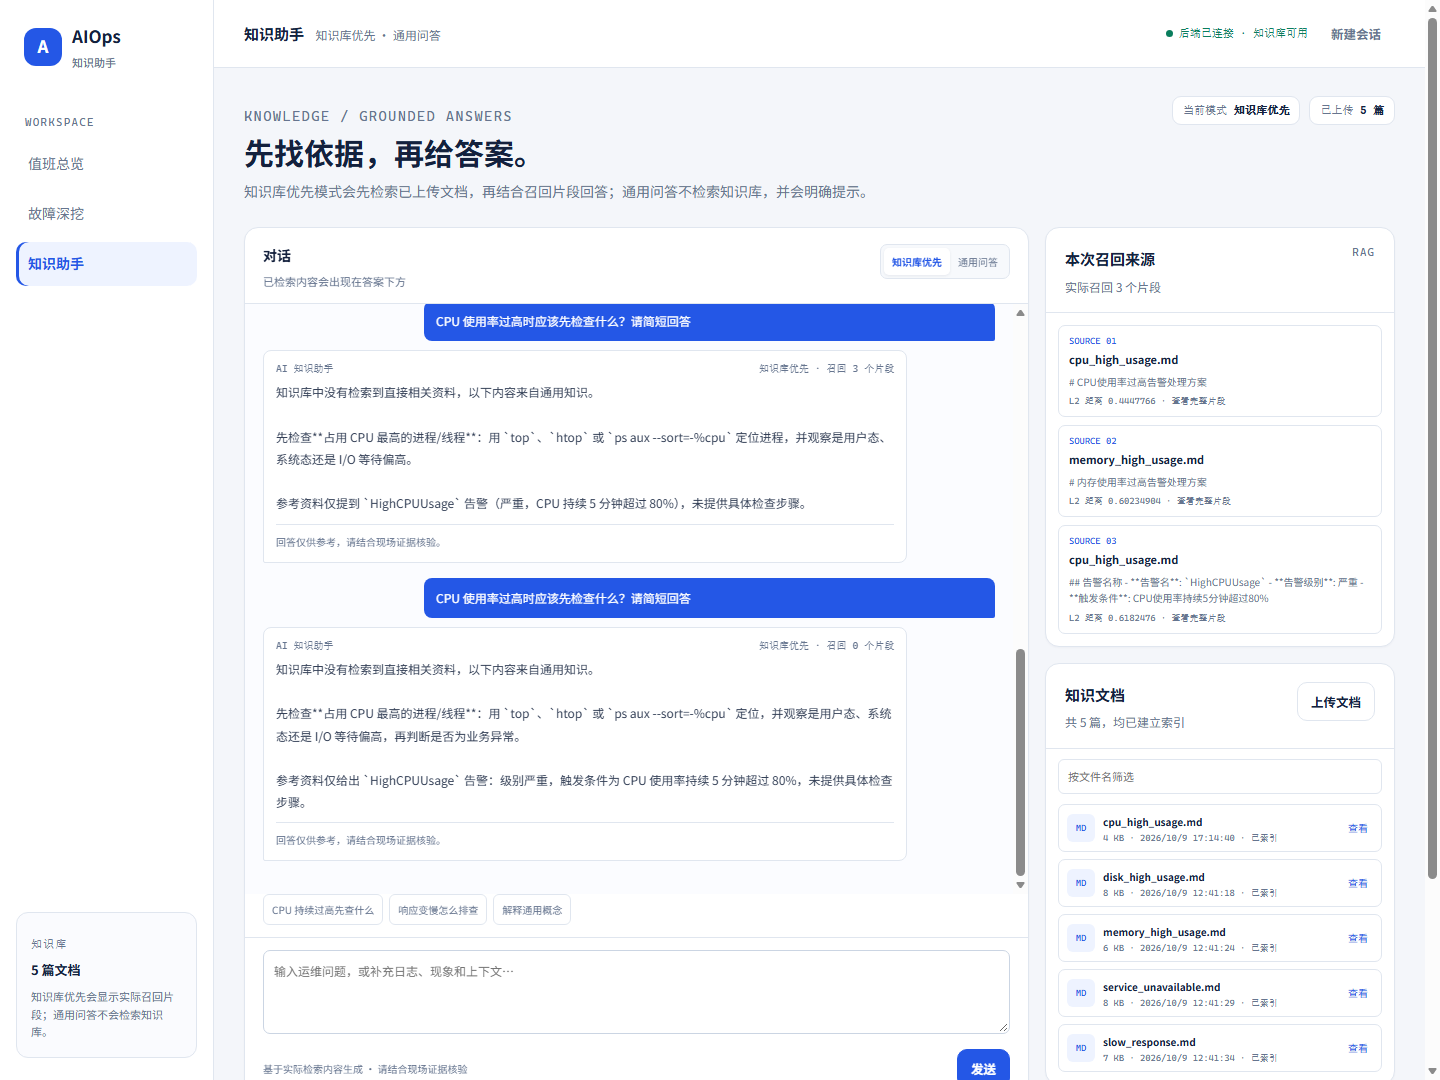
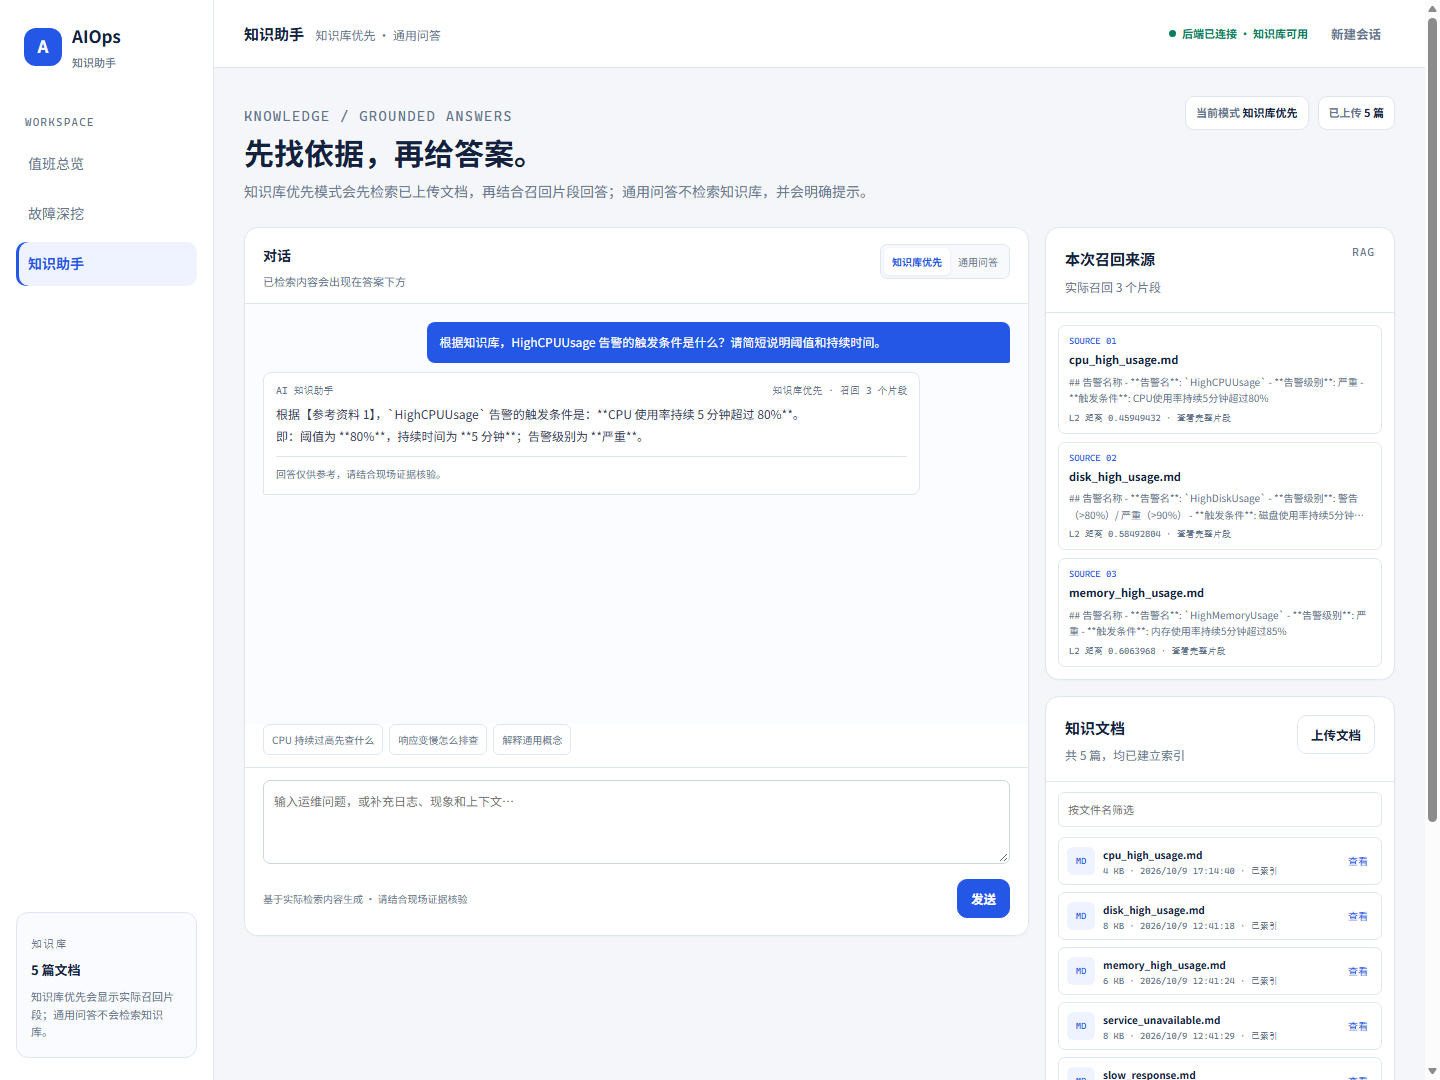
fix: refresh validated knowledge assistant previews

diff --git a/docs/knowledge-v2.js b/docs/knowledge-v2.js
@@ -226,6 +226,9 @@ async function ask(question) {
       if (event.type === 'sources') {
         state.sources = event.data || [];
         turn.sources = state.sources;
+        answerNode.previousElementSibling.lastElementChild.textContent = state.mode === 'general'
+          ? '通用问答 · 未检索知识库'
+          : '知识库优先 · 召回 ' + turn.sources.length + ' 个片段';
         renderSources();
         if (state.mode === 'knowledge') answerNode.textContent = '已检索 ' + state.sources.length + ' 个片段，正在生成回答…';
       }

diff --git a/src/main/resources/static/designs/knowledge-v2.js b/src/main/resources/static/designs/knowledge-v2.js
@@ -226,6 +226,9 @@ async function ask(question) {
       if (event.type === 'sources') {
         state.sources = event.data || [];
         turn.sources = state.sources;
+        answerNode.previousElementSibling.lastElementChild.textContent = state.mode === 'general'
+          ? '通用问答 · 未检索知识库'
+          : '知识库优先 · 召回 ' + turn.sources.length + ' 个片段';
         renderSources();
         if (state.mode === 'knowledge') answerNode.textContent = '已检索 ' + state.sources.length + ' 个片段，正在生成回答…';
       }
